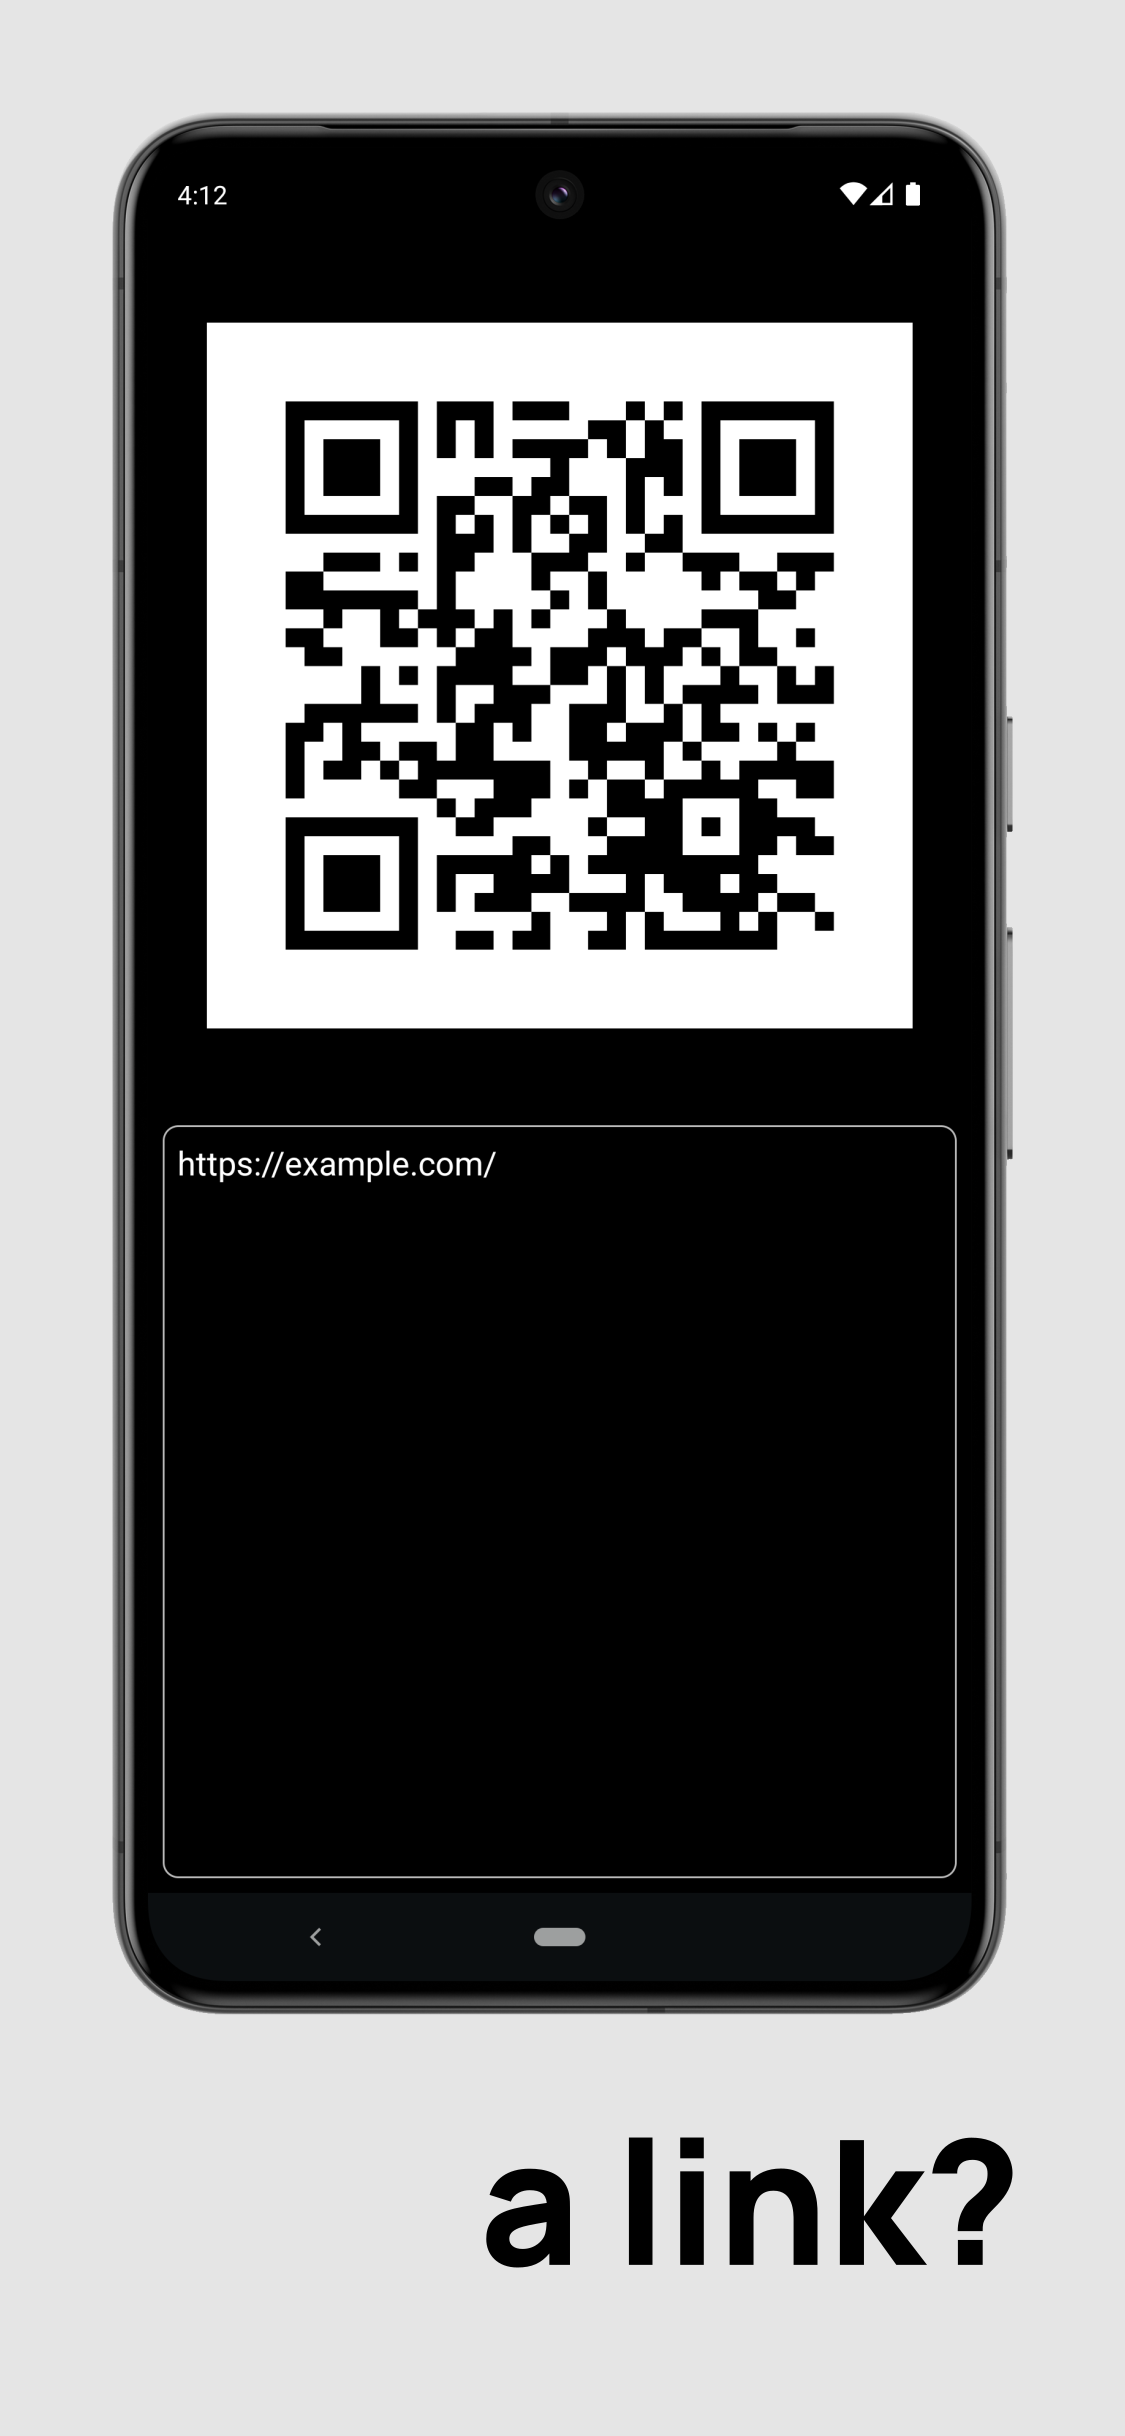
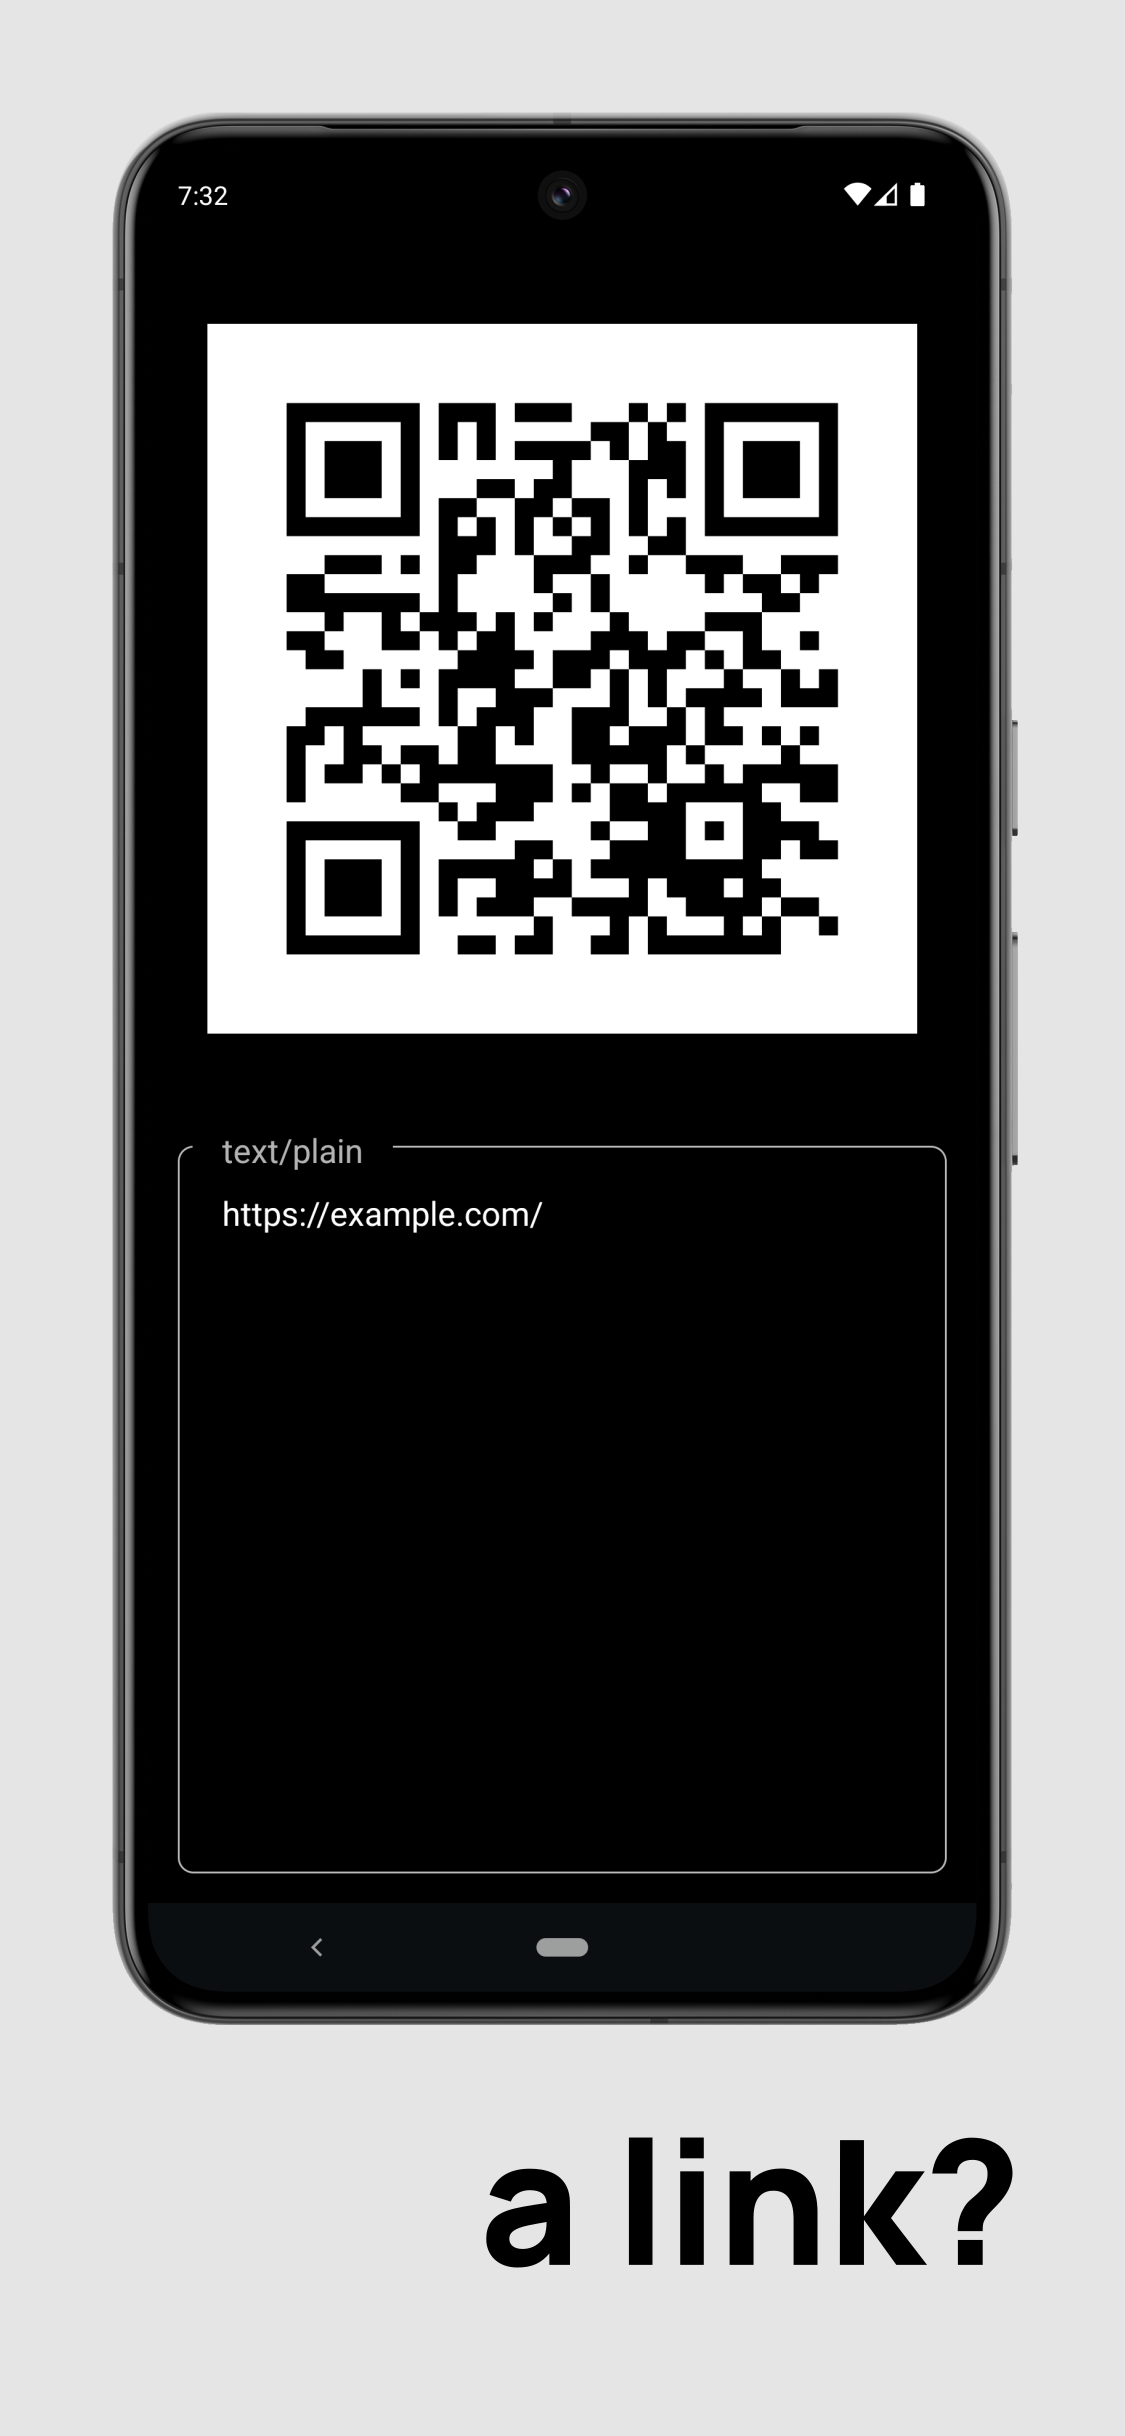
Remove old references to the removed textview + update screenshots

diff --git a/app/src/main/java/com/wchung/qrshare/MainActivity.java b/app/src/main/java/com/wchung/qrshare/MainActivity.java
@@ -116,9 +116,7 @@ public class MainActivity extends AppCompatActivity {
 
         // Set the text view to the stringForQRcode
         tv = findViewById(R.id.qr_subtitle);
-        //TextView tvt = findViewById(R.id.qr_subtitle_type);
         tv.setText(stringForQRcode);
-        //tvt.setText(stringType);
         //Log.i("onCreate", "stringType: " + stringType);
 
         // The wild mess to programmatically create a TextView :)
@@ -153,7 +151,6 @@ public class MainActivity extends AppCompatActivity {
                 stringForQRcode = s.toString();
                 qr_bitmap = stringToQRcode(stringForQRcode);
                 iv.setImageBitmap(qr_bitmap);
-                //tvt.setText(stringType);
                 subtitleHint.setText(stringType);
             }
 
@@ -196,21 +193,25 @@ public class MainActivity extends AppCompatActivity {
         // Get the root view and create a transition.
         rootView = findViewById(R.id.frame_layout);
         autoTransition = new AutoTransition();
-        autoTransition.setDuration(100);
+        autoTransition.setDuration(75);
 
         if (tv.getText() == null || tv.getText().length() == 0) {
             // Create a new TextView.
             // Start recording changes to the view hierarchy.
             TransitionManager.beginDelayedTransition(rootView, autoTransition);
             // Add the new TextView to the view hierarchy.
-            Log.i("onFocusChange", "3. view added");
+            //Log.i("onFocusChange", "3. view added");
             rootView.addView(subtitleHint);
         } else {
-            // Start recording changes to the view hierarchy.
+            layoutParams.width  = FrameLayout.LayoutParams.WRAP_CONTENT;
+            layoutParams.height = FrameLayout.LayoutParams.WRAP_CONTENT;
+            marginLayoutParams.setMargins(dp16, -dp16-dp2, dp16/2, dp16/2);
             TransitionManager.beginDelayedTransition(rootView, autoTransition);
-            // Remove the TextView from the view hierarchy.
-            Log.i("onFocusChange", "3. view removed");
-            rootView.removeView(subtitleHint);
+            subtitleHint.setLayoutParams(marginLayoutParams);
+            subtitleHint.setLayoutParams(layoutParams);
+            subtitleHint.setText(stringType);
+            TransitionManager.beginDelayedTransition(rootView, autoTransition);
+            rootView.addView(subtitleHint);
         }
 
     }
@@ -411,6 +412,8 @@ public class MainActivity extends AppCompatActivity {
 
             //Toast.makeText(this, R.string.menu_copy, Toast.LENGTH_SHORT).show();
         } else if (itemId == R.id.edit) {
+            // Kinda funny, I used this menu option to test the animations for the text view.
+            // I didn't expect this that I would have a use for this menu item :)
             tv.requestFocus();
             //Toast.makeText(this, R.string.menu_edit, Toast.LENGTH_SHORT).show();
         } else if (itemId == R.id.share) {

diff --git a/README.md b/README.md
@@ -5,17 +5,17 @@ Share QR code links using android's share sheet.
 ### Download
 <a href="https://f-droid.org/en/packages/com.wchung.qrshare/">
   <img src="https://fdroid.gitlab.io/artwork/badge/get-it-on.png"
-    alt="Get it on FDroid"
+    alt="Get qrshare on FDroid"
     height="75">
 </a>
 <a href="https://apt.izzysoft.de/fdroid/index/apk/com.wchung.qrshare">
   <img src="https://gitlab.com/IzzyOnDroid/repo/-/raw/master/assets/IzzyOnDroid.png"
-    alt="Get it on IzzyDroid"
+    alt="Get qrshare on IzzyDroid"
     height="75">
 </a>
 <a href="https://play.google.com/store/apps/details?id=com.wchung.qrshare">
   <img src="https://play.google.com/intl/en_us/badges/images/generic/en-play-badge.png"
-    alt="Get it on Google Play"
+    alt="Get qrshare on Google Play"
     height="75">
 </a>
 
